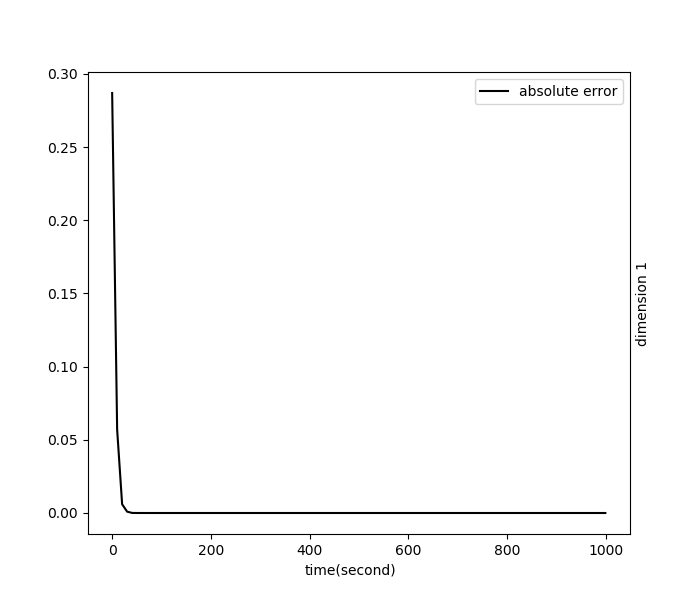
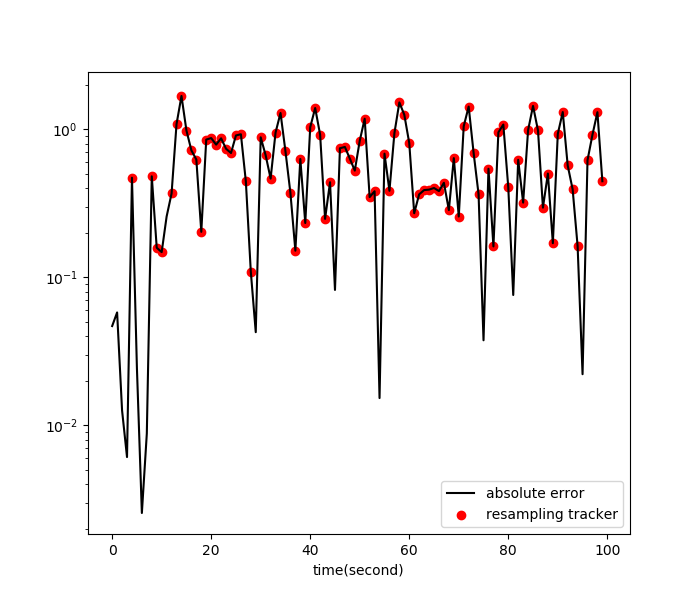
resampling_tracker added

diff --git a/python/modules/filter.py b/python/modules/filter.py
@@ -61,6 +61,7 @@ class Filter():
         self.rmse = np.linalg.norm(self.error)/np.sqrt(len(hidden_path))
         self.error_mean = np.mean(self.error, axis = 0)
         self.error_cov = np.std(self.error, axis = 0)
+        self.abs_error = np.array([np.linalg.norm(error) for error in self.error])
 
     def plot_trajectories(self, hidden_path, coords_to_plot, show = False, file_path = None, title = None):
         plot.SignalPlotter(signals = [hidden_path, self.observed_path, self.computed_trajectory])\
@@ -68,9 +69,9 @@ class Filter():
             plt_fns = ['plot', 'scatter', 'scatter'], colors = ['black', 'blue', 'red'], coords_to_plot = coords_to_plot,\
             show = show, file_path = file_path, title = title)
 
-    def plot_error(self, show = False, file_path = None, title = None):
-        plot.SignalPlotter(signals = [abs(self.error)]).plot_signals(labels = ['absolute error'], styles = [{'linestyle':'solid'}],\
-            plt_fns = ['plot'], colors = ['black'], coords_to_plot = [0], show = show, file_path = file_path, title = title)
+    def plot_error(self, show = False, file_path = None, title = None, semilogy = False):
+        plot.SignalPlotter(signals = [abs(self.abs_error)]).plot_signals(labels = ['absolute error'], styles = [{'linestyle':'solid'}],\
+            plt_fns = ['semilogy' if semilogy else 'plot'], colors = ['black'], coords_to_plot = [0], show = show, file_path = file_path, title = title)
 
 
 
@@ -108,6 +109,7 @@ class ParticleFilter(Filter):
         self.computed_trajectory = np.empty((0, self.dimension))
         if save_trajectories:
             self.trajectories = [self.particles]
+        self.resampling_tracker = []
 
     def compute_weights(self, observation):
         """
@@ -181,7 +183,9 @@ class ParticleFilter(Filter):
         if 1.0/(self.weights**2).sum() < threshold_factor*self.particle_count:
             indices = np.random.choice(self.particle_count, self.particle_count, p = self.weights)
             getattr(self, method + '_resample')()
+            self.resampling_tracker.append(True)
             return True # resampling occurred
+        self.resampling_tracker.append(False)
         return False # resampling didn't occur
 
     def filtering_pdf(self, x):
@@ -233,6 +237,22 @@ class ParticleFilter(Filter):
                 self.compute_trajectory(method = method)
                 self.current_time += 1
         return self.weights
+
+    def plot_error(self, show = False, file_path = None, title = None, semilogy = False, resampling = True):
+        signals = [self.abs_error]
+        labels = ['absolute error']
+        styles = [{'linestyle':'solid'}]
+        plt_fns = ['semilogy' if semilogy else 'plot']
+        colors = ['black']
+        if resampling:
+            resampling_lines = [self.abs_error[i] if self.resampling_tracker[i] else np.nan for i in range(len(self.error))]
+            signals.append(resampling_lines)
+            labels.append('resampling tracker')
+            styles.append({'marker':'o'})
+            plt_fns.append('scatter')
+            colors.append('red')
+        plot.SignalPlotter(signals = signals).plot_signals(labels = labels, styles = styles, plt_fns = plt_fns, colors = colors,\
+                           show = show, file_path = file_path, title = title)
 
 
 class AttractorPF(ParticleFilter):

diff --git a/python/models/model5.py b/python/models/model5.py
@@ -17,9 +17,9 @@ import plot as plot
 A 2D non-linear problem (Henon map)
 """
 # Create a Markov chain
-a, b, eps  = 0.5, 0.1, 0.0
+a, b, eps  = 1.4, 0.3, 0.0
 mu, id, zero =  np.zeros(2), np.identity(2), np.zeros(2)
-prior = sm.Simulation(algorithm = lambda *args: np.random.multivariate_normal(mu, id))
+prior = sm.Simulation(algorithm = lambda *args: np.random.multivariate_normal((0.5086958043266177, 0.126731276358114), 0.001*id))
 process_noise = sm.Simulation(algorithm = lambda *args: np.random.multivariate_normal(mu, eps*id))
 func_h = lambda k, x, noise: np.array([1.0 - a*x[0]**2 + x[1], b*x[0]]) + noise
 conditional_pdf_h = lambda k, x, past: scipy.stats.multivariate_normal.pdf(x, mean = func_h(k, past, zero), cov = eps*id)

diff --git a/python/experiments/AttractorPF/apf5.py b/python/experiments/AttractorPF/apf5.py
@@ -36,7 +36,7 @@ model = 'model5'
 image_dir = str(script_path.parent.parent.parent) + '/images/AttractorPF/'
 apf.plot_trajectories(hidden_path, coords_to_plot = [0, 1], show = True, file_path = image_dir + '{}_trajectories.png'.format(model))
 apf.compute_error(hidden_path)
-apf.plot_error(show = True, file_path = image_dir + '{}_abs_err_vs_time.png'.format(model))
+apf.plot_error(show = True, file_path = image_dir + '{}_abs_err_vs_time.png'.format(model), semilogy = True)
 plt.figure(figsize = (8,8))
 ax = plt.subplot(111)
 ax.scatter(hidden_path[:, 0], hidden_path[:, 1], color = 'orange', s = 0.2)

diff --git a/python/modules/attract.py b/python/modules/attract.py
@@ -348,7 +348,7 @@ class AttractorSampler:
         self.seeds = self.seeds.reshape((len(self.seed_idx), self.dim))
         self.points = np.array(self.db.points.read().tolist(), dtype='float64')
 
-    @ut.timer
+    #@ut.timer
     def closest_seeds(self, pts):
         """
         Description:
@@ -369,7 +369,7 @@ class AttractorSampler:
             cl_seeds[j] = self.seed_idx[np.argmin(dist)]
         return cl_seeds
 
-    @ut.timer
+    #@ut.timer
     def sample_from_cells(self, cell_idx, num_pts=1):
         """
         Description:
